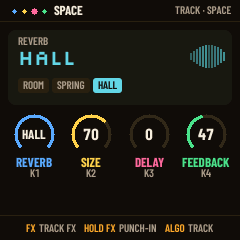
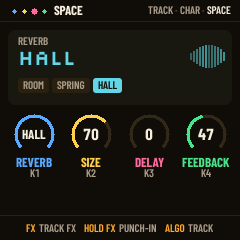
TFM-UI round 12: the report and the re-rendered screens -- NIGHT-REPORT-UI.md Round 12 (sizes per item: CHARACTER +528 B, hold ENV +1,416 B, hold SEQ v2 +1,304 B and +32 B RAM; flash 65,244 B free, RAM 10,840 B free, ISR +8.9 %; MUTATE's mode now saved in the setup's byte 13; ENV on START / DICE unc

Changed region(s): [[0.6125, 0.0, 0.9625, 0.0583]]

diff --git a/NIGHT-REPORT-UI.md b/NIGHT-REPORT-UI.md
@@ -437,3 +437,38 @@ Branch `tfm-ui`: `0299c2e` (1), `3d17d94` (2), `4e83caa` (3), `5121c9b` (4), `e3
 - M-VAVE's downloads list still offers V16 (2026_10_21).
 
 **Suite (round 11):** ALL HOST TESTS PASSED, target_budget 0, 0 lint findings, alignment 0 off. Final build 513,072 B, RAM 56,712 B. Published as the installer preview (next/); the tested release at the root is unchanged.
+
+## Round 12 (ROUND-12.md)
+
+Branch `tfm-ui`: `1036a50` (1), `0bffeff` (2), `672c9a0` (3). Package `tilt-fm-ui-r12-<sha>.fwsc`. Nothing was run on an FM-1. Plan and review in `TILT-FM/tasks/todo.md`.
+
+**Budgets** (app image / RAM .data+.bss): round 11 final 513,072 / 56,712. Item 1: 513,600 (+528). Item 2: 515,016 (+1,416). Item 3: 516,320 / 56,744 (+1,304, +32 B RAM). **Flash: 516,320 of 581,564 B, 65,244 free. RAM: 56,744 of 67,584 B, 10,840 free. Audio ISR: 9,020 against its 8,285 budget, +8.9 % (limit +10 %).**
+
+1. **FX: the CHARACTER page** (FxCharacter.dc.html).
+   - FX now cycles TRACK FX, CHARACTER, SPACE, then back to TRACK FX. The header's right side reads TRACK . CHAR . SPACE with the current page lit.
+   - CHARACTER shows the character's name big in its colour, with its wave, and the line K1-K3: THIS CHARACTER'S OWN . K4: HOW MUCH.
+   - K1-K3 are P_IA..P_IC, labelled and formatted as the type means them (ins_desc): DRIVE TONE LEVEL, BITS RATE LPF, RATE DEPTH FEEDBACK. ins_desc's FDBK is shown as FEEDBACK. K4 is AMOUNT (P_IMIX). All four record as motion.
+   - With the character OFF the page says PICK A CHARACTER ON TRACK FX (K3) and the knobs do nothing.
+   - Switching character keeps the shared values, as before; no per-character defaults.
+   - Test `test_r12_char`. Renders `ui_char`, `ui_char_crush`, `ui_char_off`.
+2. **Hold ENV: a small sheet** (HoldEnv.dc.html).
+   - **The sheet:** F3 MUTATE CHANGE IT A LITTLE with the mode chips PATTERN SOUND BOTH (K2 changes the mode); G3 STUCK COOK IT, OR START ONE; the line NEW SONG: TAP ENV . TIMER, MUTATE MODE: ON SETUP. The header names the track and the screen behind. The footer help is F3 MUTATE . G3 STUCK . K2 MODE.
+   - **Removed from the hold:** NEW SONG and TIMER. A3, B3 and K1 do nothing in TFM.
+   - **The mode was not saved before** (prf_mut lived in RAM only). It is now the setup's free byte 13 (`CF_MUT`), and SETUP has a MUTATE row. SETUP's row and the hold read the same byte.
+   - **On START / DICE no layer opens:** these are modal screens (`layer_allowed`). ENV there does what its press always did, opening SETUP and coming back. Unchanged.
+   - CLASSIC keeps Felucca's map.
+   - **Difference from the drawing:** the screen behind is not redrawn dimmed; its place is an empty dark frame.
+   - Test `test_r12_env`: F3 and G3, one undo each; K2; the SETUP row; the removed keys; CLASSIC. Round 5's MUTATE test now uses F3. Render `ui_hold_env`.
+3. **Hold SEQ v2** (HoldSeqV2.dc.html). The keys and knobs are unchanged (tools_key, LY_SEQ).
+   - **Top:** four cards with big values, K1 LEN (steps, with the bars under it), K2 DIV, K3 SWING %, K4 GATE %. Each has its knob's colour on the top edge and lights while it is turned.
+   - **Under them:** the amber line about D5 x2 and E5 /2.
+   - **The 16 white keys** are two rows of 8 tiles in keyboard order: THE TRACK in amber; THE LANE in green, dimmed on a melodic track; LENGTH in cyan; F5 and G5 empty.
+     - A tile lights while its key is down, and flashes for about 300 ms after its tool acts. The flash is recorded in `tools_key`; that costs the round's only RAM, 32 B.
+   - The lane strip is as round 11 drew it. The footer is WHITE TOOL . BLACK LANE . OCT- AS OPENED.
+   - **Key LEDs:** the layer already lights (breathing) every tool key that can act, so the LEDs are left as they are.
+   - EUCLID keeps round 11's frame.
+   - Test `test_r12_seq_v2`; the tools' own tests pass unchanged. Renders `ui_hold_seq` (drums), `ui_hold_seq_melodic`, `ui_hold_seq_x2` (D5 just pressed). Lint 0.
+
+**Exit path:** still no V15 file on this PC (only the V16 in Downloads); M-VAVE still offers V16 (2026_10_21).
+
+**Suite (round 12):** ALL HOST TESTS PASSED, target_budget 0, 0 lint findings, alignment 0 off. Final build 516,320 B, RAM 56,744 B. Published as the installer preview (next/), the tested release at the root unchanged.
